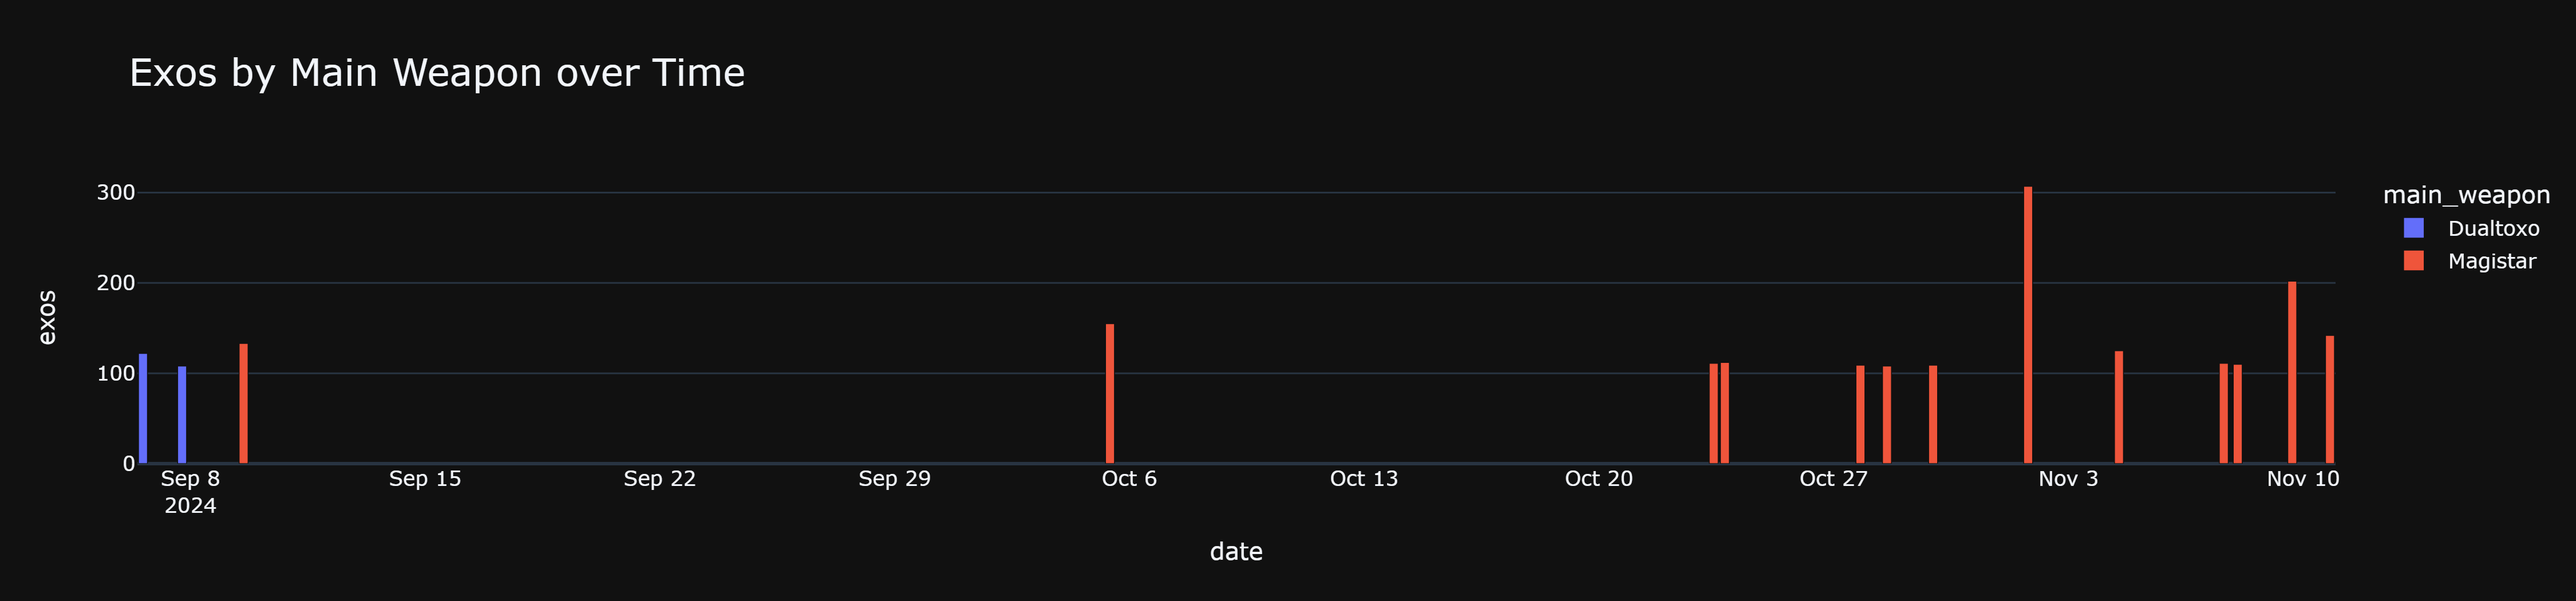
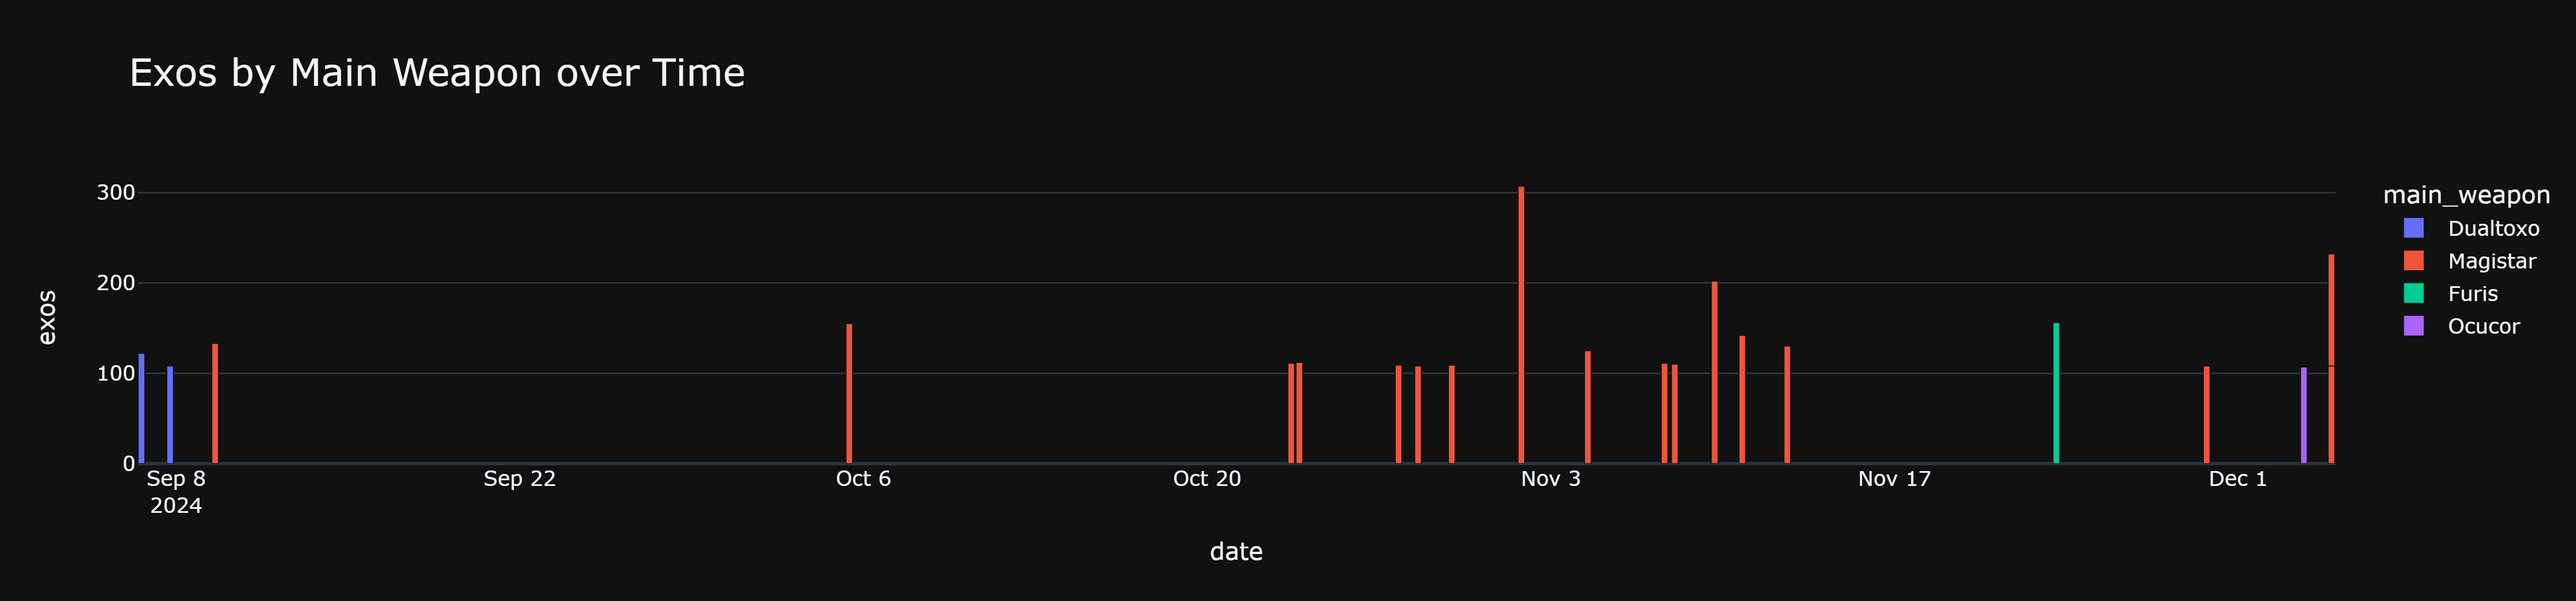
Runs update

diff --git a/README.md b/README.md
@@ -1,25 +1,28 @@
 # Warframe Cascade Run Analysis
 
 ## Total Exolisers
-- **2064** exolisers collected over **15** runs (~137 average).
+- **2797** exolisers collected over **21** runs (~133 average).
 
 ## Exos by Warframe
 | warframe   |   total_exos |   total_runs |   mean_exos_per_run |
 |:-----------|-------------:|-------------:|--------------------:|
+| Saryn      |         1593 |           13 |             122.538 |
 | Ash        |         1048 |            7 |             149.714 |
-| Saryn      |         1016 |            8 |             127     |
+| Loki       |          156 |            1 |             156     |
 
 ## Exos by Role
 | role   |   total_exos |
 |:-------|-------------:|
-| Atk    |         1246 |
-| Def    |          818 |
+| Atk    |         1640 |
+| Def    |         1157 |
 
 ## Exos by Main Weapon
 | main_weapon   |   total_exos |
 |:--------------|-------------:|
-| Magistar      |         1834 |
+| Magistar      |         2304 |
 | Dualtoxo      |          230 |
+| Furis         |          156 |
+| Ocucor        |          107 |
 
 ## Visualizations
 ![Exos by Warframe over Time](exos_by_warframe_over_time.png)
@@ -27,4 +30,4 @@
 
 ---
 
-*Report generated on 2024-11-11 00:39:06*
+*Report generated on 2024-12-04 19:50:10*
